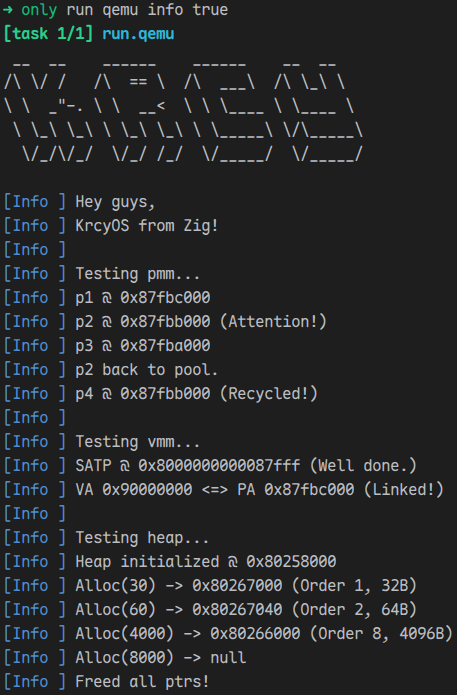
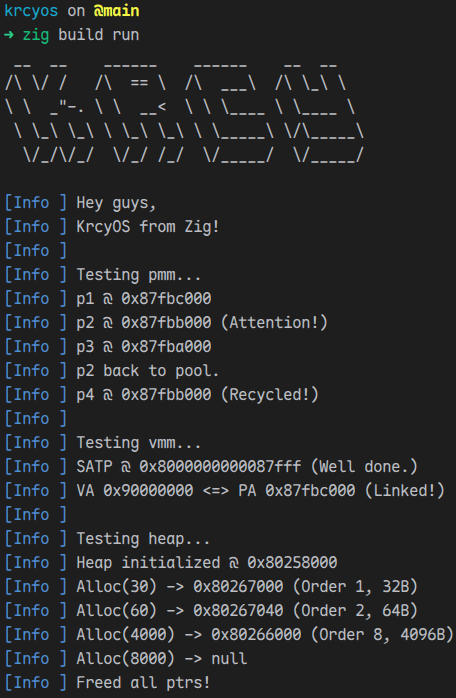
docs: update unit tests and webp

diff --git a/README.md b/README.md
@@ -63,11 +63,18 @@ Then flash to your board.
 > Press `Ctrl+A` + `X` to exit qemu.
 
 ### What's more
-Try another log level? You can:
+Try another log level:
 ```bash
 zig build run -Dlog=debug
 # or:
 # only run qemu debug
+```
+
+Run unit tests:
+```bash
+zig build test
+# or:
+# only test
 ```
 
 That's it.
